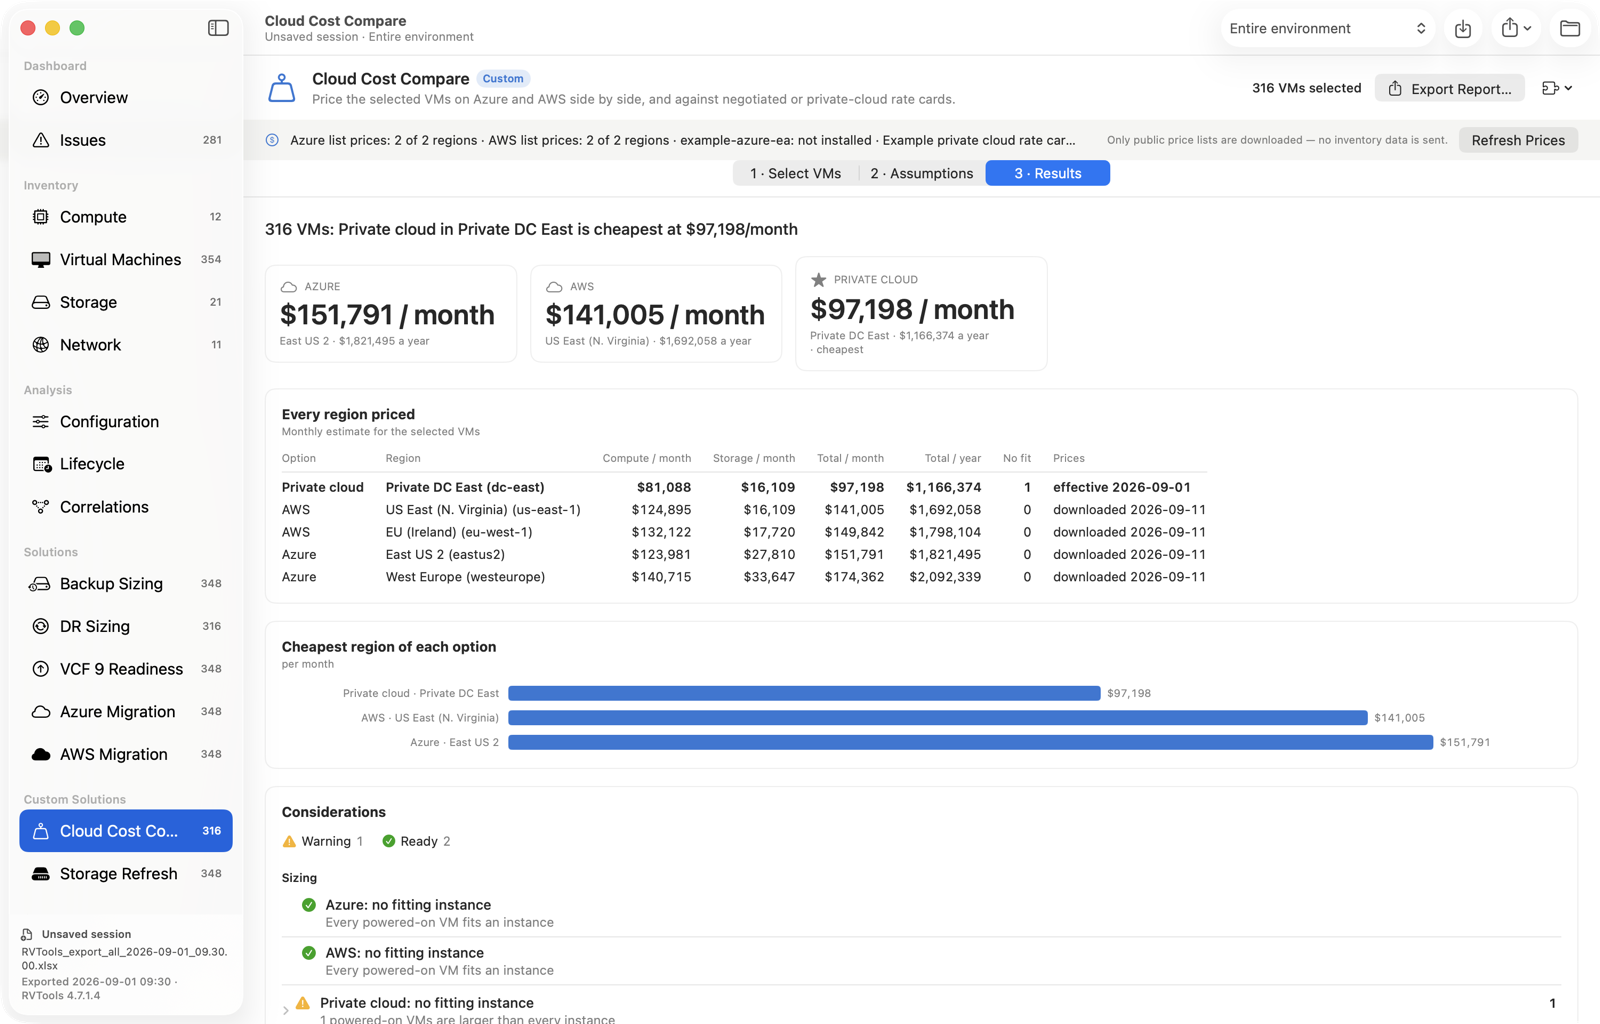
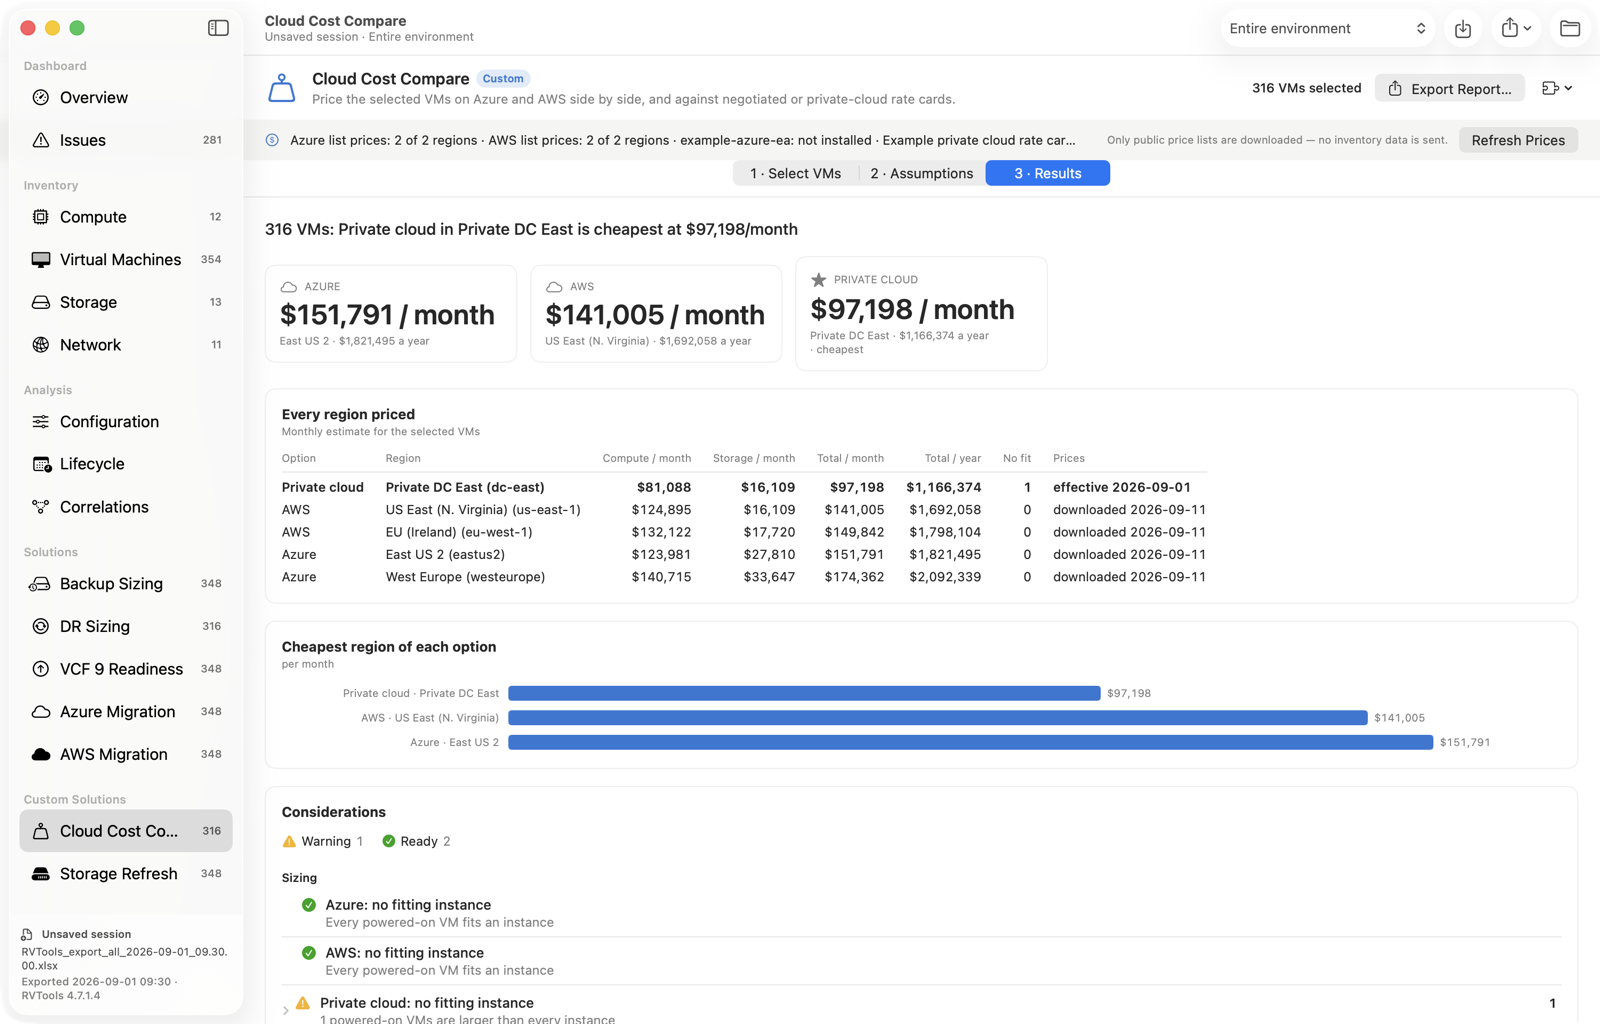
Leave out local datastores that no VM uses
Host-local datastores with no VMs, templates or VM disks — usually ESXi boot or
scratch devices — inflated capacity totals and raised findings (low free
space, "datastore with no VMs", VMFS 5) that don't matter.

- Datastore.isUnusedLocal: mounted by one host, not vSAN/NFS, and no VM,
  template or VM disk on it (by correlation and by vDatastore's VM count).
- New setting Thresholds.ignoreUnusedLocalDatastores (default on, in
  Settings › Findings, saved in projects). When on, Analyzer.run removes them
  from the inventory before rules and roll-ups, so totals, findings, charts,
  exports, solutions and the custom-solution inventory all agree; host and
  cluster datastore counts follow. Report.unusedLocalDatastores lists them
  either way.
- Trend analysis leaves out datastores that no VM used in any snapshot, and
  re-runs when the setting changes.
- Storage page notice: "8 local datastores with no VM files (3.2 TB) are
  left out…" with Include Them / Leave Them Out; the Overview datastore tile
  notes it. rvtools-cli prints which ones were left out.
- Thresholds decodes missing keys with defaults, so settings and projects
  saved before this change keep their other values.
- README, docs/SOLUTIONS.md and the screenshots are updated.

Changed region(s): [[0.0, 0.7812, 0.1562, 0.8438]]

diff --git a/Sources/RVToolsCore/Models.swift b/Sources/RVToolsCore/Models.swift
@@ -359,6 +359,11 @@ public struct Datastore: Identifiable, Sendable {
     public var clusterList: String { clusters.joined(separator: ", ") }
 }
 
+public extension Datastore {
+    /// A host-local datastore with no VM, template or VM disk on it — typically an ESXi boot or scratch device.
+    var isUnusedLocal: Bool { isLocal && vmIDs.isEmpty && (vmTotalReported ?? 0) == 0 && vmDiskMiB == 0 }
+}
+
 public struct PortGroup: Identifiable, Sendable {
     public let id: String
     public var name = ""
@@ -541,6 +546,24 @@ public struct Inventory: Sendable {
     public var checks: [ConsistencyCheck] = []
 
     public var datacenterCount: Int { Set(hosts.map { key($0.vcenter, $0.datacenter) } + vms.map { key($0.vcenter, $0.datacenter) }).count }
+
+    /// Host-local datastores that no VM uses (see `Datastore.isUnusedLocal`).
+    public var unusedLocalDatastores: [Datastore] { datastores.filter(\.isUnusedLocal) }
+
+    /// The inventory without these datastores; host and cluster datastore counts and vHealth messages follow.
+    public func removingDatastores(_ ids: Set<String>) -> Inventory {
+        guard !ids.isEmpty else { return self }
+        var s = self
+        let hostIndex = Dictionary(hosts.enumerated().map { ($1.id, $0) }, uniquingKeysWith: { a, _ in a })
+        let clusterIndex = Dictionary(clusters.enumerated().map { ($1.id, $0) }, uniquingKeysWith: { a, _ in a })
+        for d in datastores where ids.contains(d.id) {
+            for h in Set(d.hostKeys) { if let i = hostIndex[h] { s.hosts[i].datastoreCount = max(0, s.hosts[i].datastoreCount - 1) } }
+            for c in Set(d.clusterKeys) { if let i = clusterIndex[c] { s.clusters[i].datastoreCount = max(0, s.clusters[i].datastoreCount - 1) } }
+        }
+        s.datastores = datastores.filter { !ids.contains($0.id) }
+        s.health = health.filter { !ids.contains($0.objectID) }
+        return s
+    }
     /// Restricts the inventory to a set of clusters (by cluster id). Datastores, networks and host
     /// children follow the hosts/VMs that remain in scope.
     public func scoped(to clusterIDs: Set<String>) -> Inventory {

diff --git a/Sources/RVToolsCore/Trend.swift b/Sources/RVToolsCore/Trend.swift
@@ -394,8 +394,16 @@ public enum TrendAnalyzer {
         return out
     }
 
-    public static func run(_ snapshots: [TrendSnapshot]) -> TrendReport {
+    public static func run(_ snapshots: [TrendSnapshot], ignoreUnusedLocalDatastores: Bool = true) -> TrendReport {
         precondition(!snapshots.isEmpty)
+        // As in the dashboards, host-local datastores that no VM used in any snapshot are left out.
+        var unusedLocal = Set<String>(), used = Set<String>()
+        for s in snapshots {
+            for d in s.inventory.datastores {
+                if d.isUnusedLocal { unusedLocal.insert(d.id) } else { used.insert(d.id) }
+            }
+        }
+        let hiddenDatastores = ignoreUnusedLocalDatastores ? unusedLocal.subtracting(used) : []
         var warnings: [String] = []
         var nameKeyed = 0
 
@@ -410,7 +418,7 @@ public enum TrendAnalyzer {
             }
             return map
         }
-        let totals = snapshots.map { Analyzer.totals($0.inventory, []) }
+        let totals = snapshots.map { Analyzer.totals($0.inventory.removingDatastores(hiddenDatastores), []) }
         let dataTotals = snapshots.map { s in s.inventory.vms.filter(\.isVM).reduce(0) { $0 + data($1) } }
         let days = snapshots.map { $0.date.timeIntervalSince(snapshots[0].date) / 86_400 }
 
@@ -515,7 +523,9 @@ public enum TrendAnalyzer {
         }.sorted { $0.deltaMiB > $1.deltaMiB }
 
         // Datastores: growth and days-to-full at the observed rate
-        let dsIndex = snapshots.map { s in Dictionary(s.inventory.datastores.map { ($0.id, $0) }, uniquingKeysWith: { a, _ in a }) }
+        let dsIndex = snapshots.map { s in
+            Dictionary(s.inventory.datastores.filter { !hiddenDatastores.contains($0.id) }.map { ($0.id, $0) }, uniquingKeysWith: { a, _ in a })
+        }
         let lastDate = snapshots.last!.date
         let datastores: [DatastoreTrend] = (dsIndex.last ?? [:]).values.compactMap { d in
             let ys = dsIndex.indices.compactMap { i in dsIndex[i][d.id].map { (days[i], $0.capacityMiB - $0.freeMiB) } }

diff --git a/Sources/RVToolsCore/Rules.swift b/Sources/RVToolsCore/Rules.swift
@@ -61,7 +61,28 @@ public struct Thresholds: Codable, Equatable, Sendable {
     public var guestFreeWarnPct = 10.0
     public var hostUptimeDays = 365.0
     public var certExpiryDays = 90.0
+    /// Leave host-local datastores with no VM files (boot / scratch devices) out of every dashboard, finding and solution.
+    public var ignoreUnusedLocalDatastores = true
+
     public init() {}
+
+    /// Settings and projects saved before a field existed keep their other values.
+    public init(from decoder: Decoder) throws {
+        let c = try decoder.container(keyedBy: CodingKeys.self)
+        let d = Thresholds()
+        snapshotAgeDays = try c.decodeIfPresent(Double.self, forKey: .snapshotAgeDays) ?? d.snapshotAgeDays
+        snapshotSizeGiB = try c.decodeIfPresent(Double.self, forKey: .snapshotSizeGiB) ?? d.snapshotSizeGiB
+        datastoreFreeWarnPct = try c.decodeIfPresent(Double.self, forKey: .datastoreFreeWarnPct) ?? d.datastoreFreeWarnPct
+        datastoreFreeCritPct = try c.decodeIfPresent(Double.self, forKey: .datastoreFreeCritPct) ?? d.datastoreFreeCritPct
+        datastoreOvercommitPct = try c.decodeIfPresent(Double.self, forKey: .datastoreOvercommitPct) ?? d.datastoreOvercommitPct
+        hostCPUWarnPct = try c.decodeIfPresent(Double.self, forKey: .hostCPUWarnPct) ?? d.hostCPUWarnPct
+        hostMemWarnPct = try c.decodeIfPresent(Double.self, forKey: .hostMemWarnPct) ?? d.hostMemWarnPct
+        vcpuPerCoreWarn = try c.decodeIfPresent(Double.self, forKey: .vcpuPerCoreWarn) ?? d.vcpuPerCoreWarn
+        guestFreeWarnPct = try c.decodeIfPresent(Double.self, forKey: .guestFreeWarnPct) ?? d.guestFreeWarnPct
+        hostUptimeDays = try c.decodeIfPresent(Double.self, forKey: .hostUptimeDays) ?? d.hostUptimeDays
+        certExpiryDays = try c.decodeIfPresent(Double.self, forKey: .certExpiryDays) ?? d.certExpiryDays
+        ignoreUnusedLocalDatastores = try c.decodeIfPresent(Bool.self, forKey: .ignoreUnusedLocalDatastores) ?? d.ignoreUnusedLocalDatastores
+    }
 }
 
 struct RuleDef {

diff --git a/Sources/RVToolsAnalyzer/StorageView.swift b/Sources/RVToolsAnalyzer/StorageView.swift
@@ -15,7 +15,34 @@ struct StorageView: View {
             }
             .pickerStyle(.segmented).labelsHidden().frame(width: 240).padding(.vertical, 10)
             Divider()
+            UnusedLocalDatastoresNotice(report: report).padding(.horizontal, 16).padding(.top, 10)
             if model.storageTab == 0 { StorageOverview(report: report) } else { DatastoresPane(report: report) }
+        }
+    }
+}
+
+/// Says when host-local datastores with no VM files are left out (or could be), with a one-click switch.
+struct UnusedLocalDatastoresNotice: View {
+    @Environment(AppModel.self) private var model
+    let report: Report
+
+    var body: some View {
+        let unused = report.unusedLocalDatastores
+        if !unused.isEmpty {
+            let left = report.thresholds.ignoreUnusedLocalDatastores
+            let n = unused.count
+            let what = "\(n) local datastore\(n == 1 ? "" : "s") with no VM files (\(Fmt.capacity(mib: unused.reduce(0) { $0 + $1.capacityMiB })))"
+            HStack(spacing: 10) {
+                Image(systemName: left ? "eye.slash" : "eye").foregroundStyle(Palette.primary)
+                Text(left ? "\(what) \(n == 1 ? "is" : "are") left out of totals, findings and charts." : "\(what) \(n == 1 ? "is" : "are") included in totals, findings and charts.")
+                    .font(.callout)
+                    .help(unused.map(\.name).sorted().joined(separator: ", "))
+                Spacer()
+                Button(left ? "Include Them" : "Leave Them Out") { model.thresholds.ignoreUnusedLocalDatastores.toggle() }
+                    .controlSize(.small)
+            }
+            .padding(.horizontal, 12).padding(.vertical, 8)
+            .background(RoundedRectangle(cornerRadius: 8).fill(Palette.track.opacity(0.5)))
         }
     }
 }

diff --git a/Sources/RVToolsAnalyzer/OverviewView.swift b/Sources/RVToolsAnalyzer/OverviewView.swift
@@ -19,7 +19,9 @@ struct OverviewView: View {
                     KPITile(title: "vRAM : RAM", value: Fmt.pct(t.vramPerPhysical * 100), detail: "\(Fmt.capacity(mib: t.vramOnMiB)) assigned to running VMs", symbol: "memorychip")
                     KPITile(title: "CPU usage", value: Fmt.pct(t.cpuUsagePct), detail: "\(Fmt.ghz(t.cpuUsedMHz)) of \(Fmt.ghz(t.cpuMHz))", symbol: "speedometer")
                     KPITile(title: "Memory usage", value: Fmt.pct(t.memUsagePct), detail: "\(Fmt.capacity(mib: t.memUsedMiB)) of \(Fmt.capacity(mib: t.physMemMiB))", symbol: "memorychip.fill")
-                    KPITile(title: "Datastores", value: Fmt.capacity(mib: t.dsCapacityMiB), detail: "\(Fmt.pct(t.dsUsedPct)) used · \(Fmt.capacity(mib: t.dsFreeMiB)) free · \(t.datastores) datastores", symbol: "externaldrive")
+                    KPITile(title: "Datastores", value: Fmt.capacity(mib: t.dsCapacityMiB), detail: "\(Fmt.pct(t.dsUsedPct)) used · \(Fmt.capacity(mib: t.dsFreeMiB)) free · \(t.datastores) datastores"
+                            + (report.thresholds.ignoreUnusedLocalDatastores && !report.unusedLocalDatastores.isEmpty ? " (\(report.unusedLocalDatastores.count) unused local left out)" : ""),
+                            symbol: "externaldrive")
                     KPITile(title: "VM storage in use", value: Fmt.capacity(mib: t.vmInUseMiB), detail: "of \(Fmt.capacity(mib: t.vmProvisionedMiB)) provisioned", symbol: "internaldrive")
                     KPITile(title: "Snapshots", value: Fmt.int(t.snapshots), detail: "\(Fmt.capacity(mib: t.snapshotMiB)) in delta files", symbol: "camera.on.rectangle")
                     KPITile(title: "Findings", value: Fmt.int(t.findings), detail: "\(t.critical) critical · \(t.warning) warning · \(t.info) info",

diff --git a/Sources/rvtools-cli/main.swift b/Sources/rvtools-cli/main.swift
@@ -221,7 +221,8 @@ do {
     let t0 = Date()
     var inputs = args.map { URL(fileURLWithPath: $0) }
     if inputs.count == 1, ProjectFile.isProject(inputs[0]), let opened = try? ProjectFile.read(inputs[0]), opened.project.isTrend {
-        printTrend(TrendAnalyzer.run(try TrendLoader.load(groups: opened.project.sourceGroups(in: inputs[0]))))
+        printTrend(TrendAnalyzer.run(try TrendLoader.load(groups: opened.project.sourceGroups(in: inputs[0])),
+                                     ignoreUnusedLocalDatastores: opened.project.thresholds.ignoreUnusedLocalDatastores))
         exit(0)
     }
     if trendMode {
@@ -325,6 +326,10 @@ do {
     print("VMs \(t.vms): on \(t.vmsOn), off \(t.vmsOff), suspended \(t.vmsSuspended) · templates \(t.templates)")
     print("Compute: \(t.sockets) sockets, \(t.cores) cores, \(Fmt.capacity(mib: t.physMemMiB)) RAM · vCPU on \(t.vcpuOn) (\(Fmt.ratio(t.vcpuPerCore))) · vRAM on \(Fmt.capacity(mib: t.vramOnMiB))")
     print("Utilisation: CPU \(Fmt.pct(t.cpuUsagePct)) · memory \(Fmt.pct(t.memUsagePct))")
+    if !r.unusedLocalDatastores.isEmpty {
+        print("Local datastores with no VM files (\(r.thresholds.ignoreUnusedLocalDatastores ? "left out of the figures below" : "included")): "
+            + r.unusedLocalDatastores.map(\.name).sorted().joined(separator: ", "))
+    }
     print("Storage: \(t.datastores) datastores, \(Fmt.capacity(mib: t.dsCapacityMiB)) capacity, \(Fmt.pct(t.dsUsedPct)) used · VM provisioned \(Fmt.capacity(mib: t.vmProvisionedMiB)), in use \(Fmt.capacity(mib: t.vmInUseMiB))")
     print("Snapshots \(t.snapshots) (\(Fmt.capacity(mib: t.snapshotMiB))) · port groups \(t.portGroups) · VLANs \(t.vlans)")
 

diff --git a/Sources/RVToolsAnalyzer/AppModel.swift b/Sources/RVToolsAnalyzer/AppModel.swift
@@ -197,6 +197,13 @@ final class AppModel {
             guard thresholds != oldValue else { return }
             if let data = try? JSONEncoder().encode(thresholds) { UserDefaults.standard.set(data, forKey: "thresholds") }
             recompute()
+            if thresholds.ignoreUnusedLocalDatastores != oldValue.ignoreUnusedLocalDatastores, let t = trend {
+                let snapshots = t.snapshots, ignore = thresholds.ignoreUnusedLocalDatastores
+                Task.detached(priority: .userInitiated) {
+                    let updated = TrendAnalyzer.run(snapshots, ignoreUnusedLocalDatastores: ignore)
+                    await MainActor.run { if self.trend?.snapshots.count == snapshots.count { self.trend = updated } }
+                }
+            }
             noteChange()
         }
     }
@@ -327,7 +334,7 @@ final class AppModel {
                     throw RVToolsError.unreadable("Compare Snapshots needs exports of the same environment taken at different times, but these files form a single snapshot. To combine several vCenters into one view, use Open… instead.")
                 }
                 await MainActor.run { self.loadingMessage = "Comparing \(snapshots.count) snapshots…" }
-                let trend = TrendAnalyzer.run(snapshots)
+                let trend = TrendAnalyzer.run(snapshots, ignoreUnusedLocalDatastores: t.ignoreUnusedLocalDatastores)
                 let latest = snapshots[snapshots.count - 1]
                 let report = Analyzer.run(latest.inventory, thresholds: t)
                 await MainActor.run {

diff --git a/Sources/RVToolsCore/Analysis.swift b/Sources/RVToolsCore/Analysis.swift
@@ -87,11 +87,14 @@ public struct Report: Sendable {
     public var storage: StorageRollup
     public var thresholds: Thresholds
     public var findingsByObject: [String: [Finding]]
+    /// Host-local datastores with no VM files. Left out of `inventory` when `thresholds.ignoreUnusedLocalDatastores`.
+    public var unusedLocalDatastores: [Datastore] = []
 }
 
 public enum Analyzer {
     public static func run(_ source: Inventory, thresholds: Thresholds = Thresholds()) -> Report {
-        var inv = source
+        let unusedLocal = source.unusedLocalDatastores
+        var inv = thresholds.ignoreUnusedLocalDatastores ? source.removingDatastores(Set(unusedLocal.map(\.id))) : source
         let (findings, catalog) = Rules.evaluate(inv, thresholds)
 
         var byObject: [String: [Finding]] = [:]
@@ -114,7 +117,8 @@ public enum Analyzer {
         }.sorted { ($0.severity.rawValue, -$0.count, $0.title) < ($1.severity.rawValue, -$1.count, $1.title) }
 
         return Report(inventory: inv, totals: totals(inv, findings), findings: findings, groups: groupList,
-                      dist: distributions(inv, findings), storage: storage(inv), thresholds: thresholds, findingsByObject: byObject)
+                      dist: distributions(inv, findings), storage: storage(inv), thresholds: thresholds, findingsByObject: byObject,
+                      unusedLocalDatastores: unusedLocal)
     }
 
     static func totals(_ inv: Inventory, _ findings: [Finding]) -> Totals {

diff --git a/Sources/RVToolsAnalyzer/SettingsView.swift b/Sources/RVToolsAnalyzer/SettingsView.swift
@@ -45,6 +45,11 @@ private struct FindingsSettingsView: View {
             Section("Guests") {
                 field("Guest partition free below", $model.thresholds.guestFreeWarnPct, "%")
             }
+            Section("Local datastores") {
+                Toggle("Ignore local datastores with no VM files", isOn: $model.thresholds.ignoreUnusedLocalDatastores)
+                Text("Host-local datastores that hold no VMs, templates or VM disks — usually ESXi boot or scratch devices — are left out of capacity totals, findings, charts, exports and solutions. Local datastores that VMs use always count.")
+                    .font(.caption).foregroundStyle(.secondary).fixedSize(horizontal: false, vertical: true)
+            }
             Section {
                 HStack {
                     Text("Findings recalculate immediately.").font(.caption).foregroundStyle(.secondary)

diff --git a/README.md b/README.md
@@ -85,6 +85,8 @@ Ages are measured from the export timestamp in `vMetaData` or the file name, not
 | **Compute** | Cluster cards (HA/DRS/admission control, capacity, consolidation ratios, CPU/memory used, memory if the largest host fails, ESXi/CPU mix) and host utilization. The hosts table has an inspector covering the host's VMs, datastores, pNICs, VMkernel adapters, HBAs, LUN paths and findings. |
 | **Virtual Machines** | A searchable, sortable inventory (search by name, IP, host, OS, network, datastore or notes). The inspector shows everything joined to the VM: placement, compute, disks, guest partitions, NICs with VLANs, snapshots, Tools/HW/firmware, findings and vHealth messages. |
 | **Storage** | Capacity, used, provisioned (overcommit), thin vs thick, reclaim opportunities (powered-off VMs, snapshots, templates, guest free space, empty datastores, zombie files) and snapshot age. The datastores table has an inspector listing each datastore's VMs and hosts. |
+
+**Local datastores with no VM files.** Host-local datastores that hold no VMs, templates or VM disks, usually ESXi boot or scratch devices, are left out by default. They don't count in capacity totals, findings (such as low free space or "datastore with no VMs"), charts, trends, exports or solutions. A datastore counts as local when exactly one host mounts it and it isn't vSAN or NFS. Local datastores that VMs use always count. When any are left out, the Storage page says how many, with a button to include them; the same switch is in **Settings › Findings**, and projects save it.
 | **Network** | Port groups with VLANs, the switch they're on, host and VM counts, and security policy. Also distributed and standard switches, VMkernel adapters, physical NICs, and adapter types. |
 | **Configuration** | Distributions: guest OS, vCPU and memory sizes, firmware/Secure Boot, disk controllers, NIC types, resource controls, CPU models, hardware, link speeds. |
 | **Lifecycle** | Guest OS end-of-support status, ESXi and vCenter support dates, virtual hardware versions, VMware Tools status, VM creation by year, host uptime, licenses. |
@@ -136,7 +138,7 @@ The authoring guide, with the manifest, inventory, results, helpers and price li
 
 The **Scope** picker in the toolbar limits every page to one vCenter, datacenter or cluster. Datastores and networks follow the hosts and VMs in scope.
 
-**Export** writes CSVs of the findings, the correlated VM inventory, hosts, clusters and datastores. **Settings** (⌘,) holds the thresholds; findings recalculate immediately when you change them.
+**Export** writes CSVs of the findings, the correlated VM inventory, hosts, clusters and datastores. **Settings** (⌘,) holds the thresholds and whether local datastores with no VM files are left out; findings recalculate immediately when you change them.
 
 ## How tabs are correlated
 

diff --git a/docs/SOLUTIONS.md b/docs/SOLUTIONS.md
@@ -287,6 +287,8 @@ Unknown values are `null`. Fields are only ever added within an API version.
 
 ### Datastore
 
+Unless the user turns it off in Settings, host-local datastores with no VM files (boot or scratch devices) aren't in `inventory.datastores`, just as they're left out of the dashboards.
+
 `id`, `name`, `vcenter`, `type`, `capacityMiB`, `provisionedMiB`, `inUseMiB`, `freeMiB`, `freePct`, `accessible`, `isLocal`, `datastoreCluster`, `majorVersion`, `hostIds`, `vmIds`, `clusterIds`, `clusters`, `vmDiskMiB`
 
 A VM's `datastores` are names. Match on `vcenter` + `name`:
